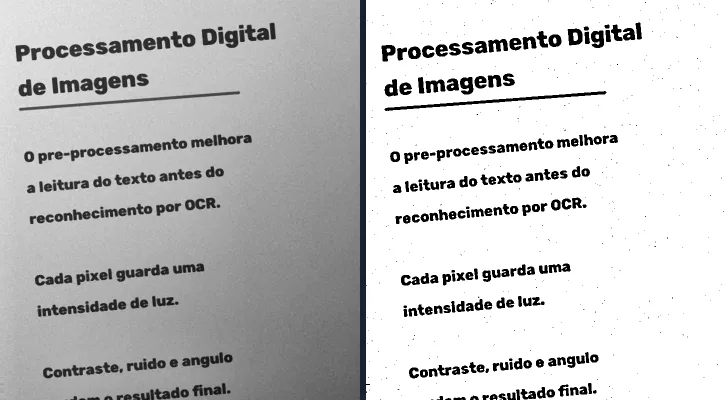
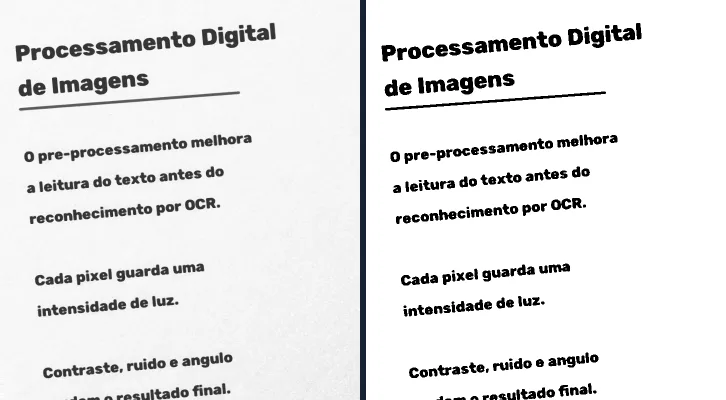
feat: atualizar a interface para o pipeline novo
Regera as imagens da aba Fundamentos com as etapas atuais e troca as
menções a CLAHE e limiar adaptativo nas abas Etapas, Fundamentos,
Configurações e no editor do Perfil.

diff --git a/frontend/index.html b/frontend/index.html
@@ -240,8 +240,8 @@
             <span class="step-number">03</span>
             <div class="step-symbol lilac">◒</div>
             <h3>Contraste e ruído</h3>
-            <p>CLAHE realça diferenças locais; o filtro mediano suaviza ruídos pontuais para melhorar a legibilidade.</p>
-            <span class="step-foot">CLAHE + MEDIANA</span>
+            <p>Divide a imagem pelo próprio fundo para apagar sombras e luz desigual; o filtro mediano suaviza ruídos pontuais.</p>
+            <span class="step-foot">ILUMINAÇÃO + MEDIANA</span>
           </article>
 
           <article class="step-card">
@@ -286,10 +286,10 @@
             <p>Reduz a informação colorida para intensidade luminosa, simplificando a análise e reduzindo variações que não ajudam no reconhecimento do texto.</p>
           </article>
           <article class="topic-card" data-reveal>
-            <figure class="topic-figure"><img src="/static/fundamentos/03-contraste-ruido.webp" alt="Trecho da página antes e depois do CLAHE e do filtro mediano" loading="lazy" width="726" height="400"><figcaption>antes → CLAHE + mediana</figcaption></figure>
+            <figure class="topic-figure"><img src="/static/fundamentos/03-contraste-ruido.webp" alt="Trecho da página com sombra antes e depois da normalização de iluminação e do filtro mediano" loading="lazy" width="726" height="400"><figcaption>sombra → luz uniforme</figcaption></figure>
             <span class="topic-tag">03</span>
             <h3>Contraste e ruído</h3>
-            <p>O CLAHE aumenta a diferença entre regiões escuras e claras, enquanto filtros de suavização removem detalhes pontuais indesejados que dificultam a leitura.</p>
+            <p>A normalização de iluminação estima o fundo do papel e divide a imagem por ele, removendo sombras e deixando o contraste uniforme; o filtro mediano remove detalhes pontuais que dificultam a leitura.</p>
           </article>
           <article class="topic-card" data-reveal>
             <figure class="topic-figure"><img src="/static/fundamentos/04-binarizacao.webp" alt="Página em tons de cinza e o resultado binarizado em preto e branco" loading="lazy" width="726" height="400"><figcaption>antes → binária</figcaption></figure>
@@ -428,7 +428,7 @@
             </div>
             <div class="setting-row"><span>Modo de leitura</span><strong>Documentos e páginas</strong></div>
             <div class="setting-row"><span>Tema</span><strong>Escuro</strong></div>
-            <div class="setting-row"><span>Contraste</span><strong>Melhorado por CLAHE</strong></div>
+            <div class="setting-row"><span>Iluminação</span><strong>Fundo normalizado</strong></div>
             <div class="setting-row"><span>Suavização</span><strong>Filtro mediano</strong></div>
           </article>
 

diff --git a/frontend/app.js b/frontend/app.js
@@ -707,10 +707,10 @@ const HERO_CODIGO = [
   "# pipeline.py · do pixel ao texto",
   "def processar(imagem):",
   "    cinza = cv2.cvtColor(imagem, cv2.COLOR_BGR2GRAY)",
-  "    contraste = cv2.createCLAHE(2.0).apply(cinza)",
-  "    limpa = cv2.medianBlur(contraste, 3)",
-  "    binaria = cv2.adaptiveThreshold(",
-  "        limpa, 255, GAUSS, BINARY, 31, 11)",
+  "    uniforme = normalizar_iluminacao(ampliar(cinza))",
+  "    limpa = cv2.medianBlur(uniforme, 3)",
+  "    _, binaria = cv2.threshold(",
+  "        limpa, 0, 255, BINARY + OTSU)",
   "    alinhada, angulo = corrigir_inclinacao(binaria)",
   "    return pytesseract.image_to_string(",
   "        alinhada, lang=\"por+eng\")"
@@ -718,9 +718,9 @@ const HERO_CODIGO = [
 const HERO_TERMINAL = [
   ["t-cmd", "python -m nexo processar apostila.jpg"],
   ["t-ok", "tons de cinza            0.02s"],
-  ["t-ok", "CLAHE + mediana          0.05s"],
-  ["t-ok", "binarização adaptativa   0.03s"],
-  ["t-ok", "inclinação corrigida    -5.04°"],
+  ["t-ok", "iluminação uniforme      0.05s"],
+  ["t-ok", "binarização (Otsu)       0.03s"],
+  ["t-ok", "inclinação corrigida    -4.90°"],
   ["t-hi", "→ 9 linhas reconhecidas · pronto para estudar"]
 ];
 

diff --git a/tools/gerar_imagens_fundamentos.py b/tools/gerar_imagens_fundamentos.py
@@ -11,7 +11,9 @@ import pytesseract
 
 RAIZ = Path(__file__).resolve().parents[1]
 sys.path.insert(0, str(RAIZ))
-from backend.processamento import _configurar_tesseract, _corrigir_inclinacao  # noqa: E402
+from backend.processamento import (  # noqa: E402
+    _configurar_tesseract, _corrigir_inclinacao, _normalizar_iluminacao,
+)
 
 SAIDA = RAIZ / "frontend" / "fundamentos"
 SAIDA.mkdir(exist_ok=True)
@@ -56,11 +58,12 @@ pagina[pontos] = rng.integers(40, 120, (pontos.sum(), 1)).astype(np.uint8)
 M = cv2.getRotationMatrix2D((pw / 2, ph / 2), 5, 1.0)
 foto = cv2.warpAffine(pagina, M, (pw, ph), flags=cv2.INTER_CUBIC, borderMode=cv2.BORDER_REPLICATE)
 
-# 2) Pipeline idêntico ao backend.processar
+# 2) Mesmas etapas do backend.processar. A ampliação é omitida: as letras desta página já são
+#    grandes, e manter o tamanho original deixa os recortes das figuras alinhados.
 cinza = cv2.cvtColor(foto, cv2.COLOR_BGR2GRAY)
-contraste = cv2.createCLAHE(clipLimit=2.0, tileGridSize=(8, 8)).apply(cinza)
-sem_ruido = cv2.medianBlur(contraste, 3)
-binaria = cv2.adaptiveThreshold(sem_ruido, 255, cv2.ADAPTIVE_THRESH_GAUSSIAN_C, cv2.THRESH_BINARY, 31, 11)
+iluminacao_uniforme = _normalizar_iluminacao(cinza)
+sem_ruido = cv2.medianBlur(iluminacao_uniforme, 3)
+_, binaria = cv2.threshold(sem_ruido, 0, 255, cv2.THRESH_BINARY + cv2.THRESH_OTSU)
 alinhada, angulo = _corrigir_inclinacao(binaria)
 print("inclinacao corrigida:", round(angulo, 2))
 
